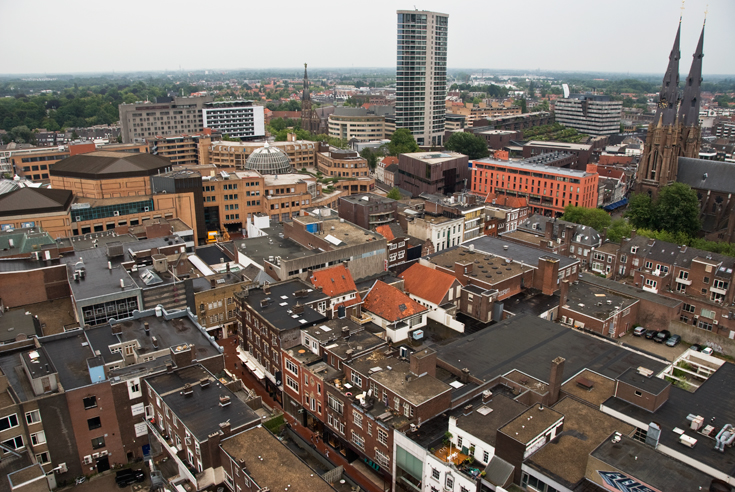
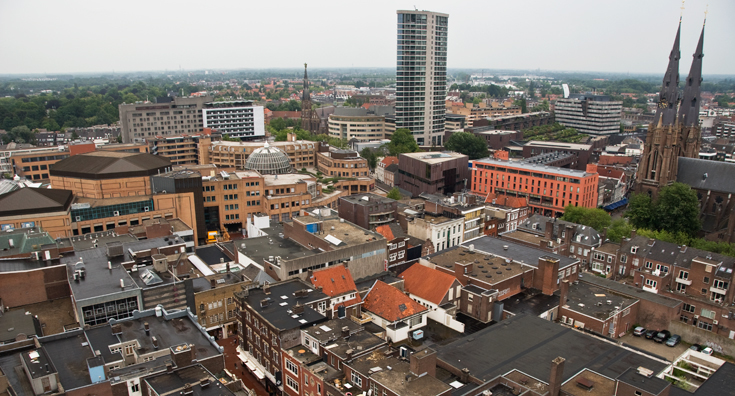
eindhoven pictures

diff --git a/public_html/index.php b/public_html/index.php
@@ -21,7 +21,7 @@
             </div>
           </div>
           <div class="item">
-            <img src="images/metaforum.jpg" alt="Second slide">
+            <img src="images/eindhoven2.jpg" alt="Second slide">
             <div class="container">
               <div class="carousel-caption">
                 <h1>Research different</h1>
